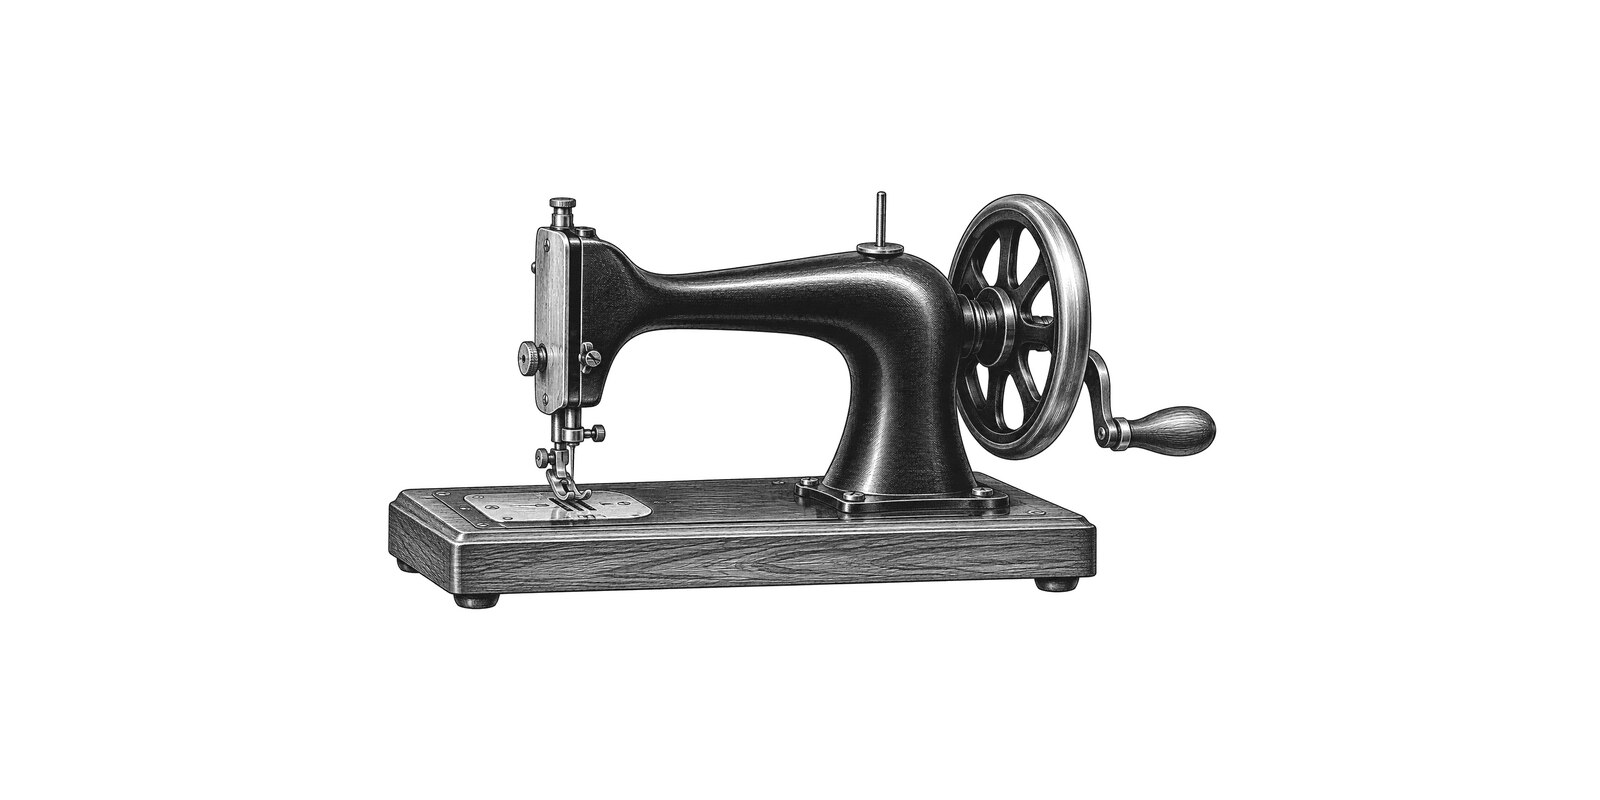
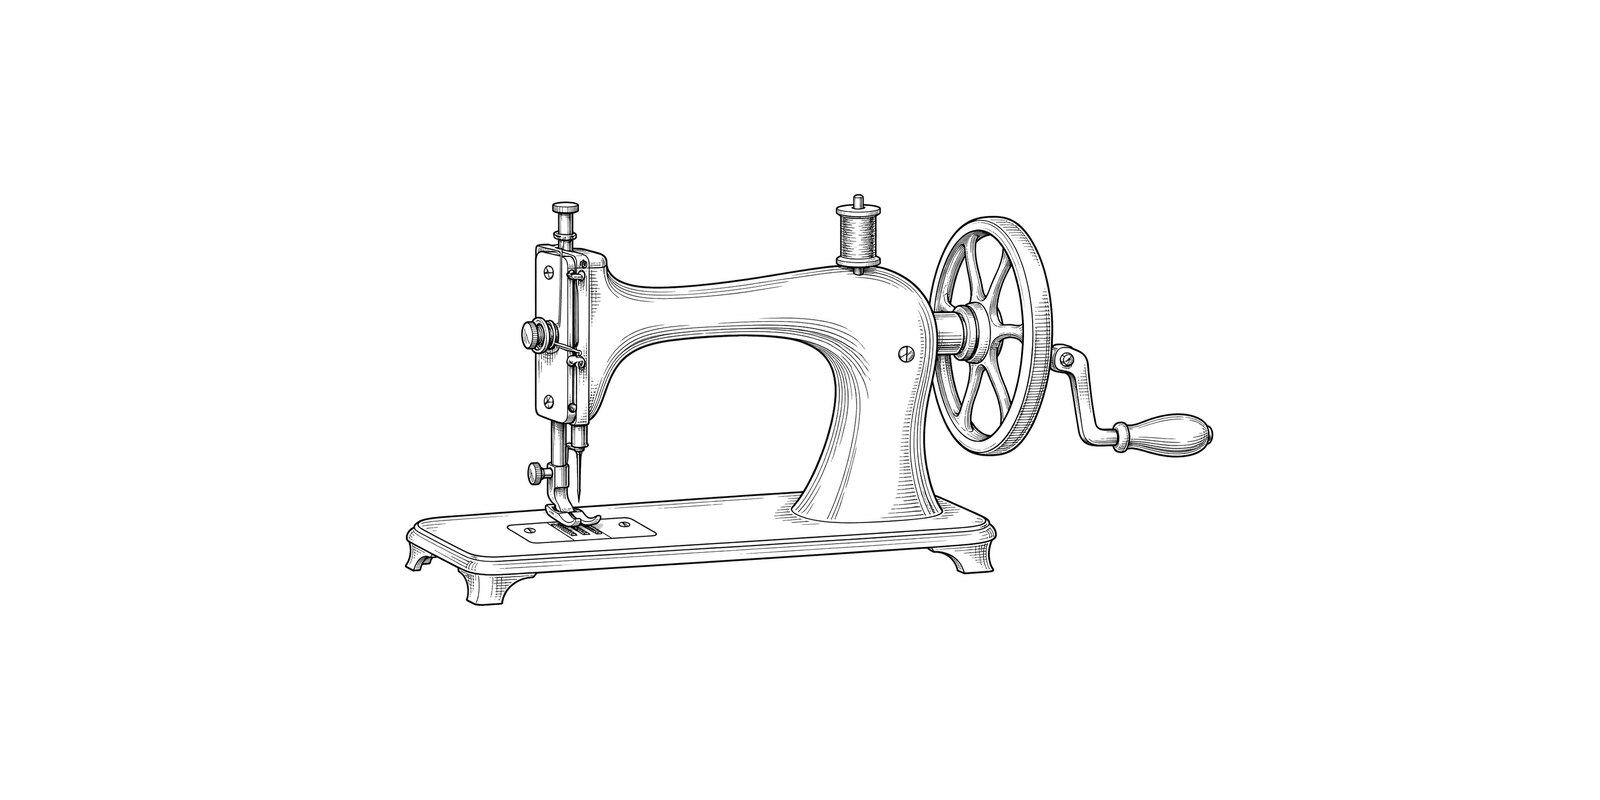
Use sparse line engraving for stable e-ink previews

Changed region(s): [[0.2188, 0.2188, 0.7812, 0.7812]]

diff --git a/docs/IMAGE_UPDATE_2026-11-11.md b/docs/IMAGE_UPDATE_2026-11-11.md
@@ -4,7 +4,7 @@ Exhibit 040: Hand-Crank Sewing Machines. Original artwork created with the built
 
 ## Complete prompt
 
-Use case: historical-scene. Original monochrome e-ink museum engraving of a generic hand-crank straight-stitch sewing machine of the currently offered traditional domestic type. Entire dark cast-iron curved arm, horizontal wooden base, needle bar and presser foot at left, one large spoked flywheel at right with a compact offset hand crank and clearly attached rounded grip extending outside the wheel. No motor, belt, treadle table, person, text, brand badge or logo. Three-quarter front view, low wide composition, centered complete machine and crank with generous white paper margins. Pure grayscale, crisp silhouette and restrained crosshatching, isolated on solid white, no background objects, no watermark. Not a portrait of an exact USHA model.
+Use case: historical-scene. Create a museum catalogue line engraving for monochrome e-ink: one complete generic tabletop hand-crank straight-stitch sewing machine, shown in a clean three-quarter view with curved arm, slim base, needle and presser foot, spoked flywheel and distinct attached offset crank with rounded grip. Pure black ink outlines on a pure white untextured background, like a crisp early patent illustration without labels. Use sparse thin parallel hatching only inside the object, NO broad solid black filled panels, NO mid-gray shading, no cast shadow, no reflection, no paper grain. Keep body and base mostly white with dark outline and sparse visible detail. Entire object including crank on a wide canvas with white margins. No hands, treadle, motor, branding, borders, arrows, text or watermark. Not a portrait of a specific product.
 
 ## Exports
 
@@ -12,4 +12,4 @@ Use case: historical-scene. Original monochrome e-ink museum engraving of a gene
 - `assets/exhibits/responsive-v2/hand-operated-sewing-machines-standard-4x3.jpg`: 1067×800 grayscale JPEG.
 - `assets/exhibits/hand-operated-sewing-machines.jpg` mirrors the standard export.
 
-Normalize near-white paper above 96% to pure white before resizing. Contain artwork within 1180×430 for wide and 977×680 for standard, centered on white, quality 87. No subject crop. The first hosted X renders showed gray quantization streaks; recheck both aspect ratios on all four OG, X landscape and X portrait layouts before opening or merging the PR.
+Normalize near-white paper above 96% to pure white before resizing. Contain artwork within 1180×430 for wide and 977×680 for standard, centered on white, quality 87. No subject crop. The first shaded engraving produced gray streaks in some 4-bit hosted previews even after paper normalization, so the final prompt uses sparse linework instead. Review all four layouts on OG, X landscape and X portrait before opening or merging the PR.
